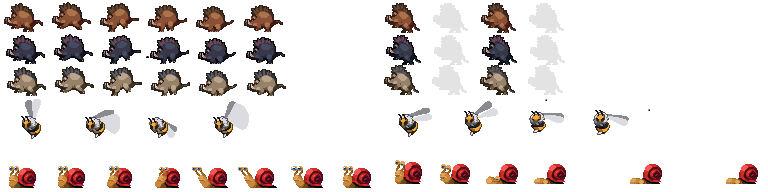
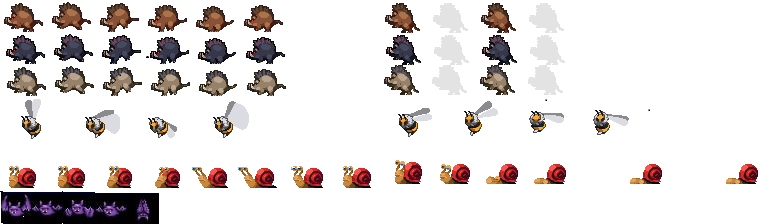
add new blocks lv3

diff --git a/src/Map.cpp b/src/Map.cpp
@@ -59,6 +59,13 @@ Map::Map(const std::string& filePath, int tileSize, std::vector<sf::Texture>& ma
                 block->setItem("peach");
             }
 
+            if (mapData[i][j] == 'W') {
+            
+                Block* block = BlockFactory::createBlock(
+                "water", texture, { j * tileSize, i * tileSize });
+              blocks.push_back(block);
+            }
+
 
             if (mapData[i][j] == 'M') {
               Monster* monster = MonsterFactory::createMonster("Goomba", Monstertexture, { j * tileSize, i * tileSize });
@@ -128,7 +135,34 @@ void Map::draw(sf::RenderWindow& window) {
                 tile.setTextureRect(sf::IntRect(17*32, 0, tileSize, tileSize));  // Assuming the first tile is a solid block
 
             }
-            else /*if (tileType == '0' || tileType == 'C')*/ { // Empty space (no drawing needed)
+            else if (tileType == 'X') {
+              tile.setTextureRect(sf::IntRect(18 * 32, 2*32, tileSize, tileSize));
+            }
+            else if (tileType =='Y') {
+              tile.setTextureRect(sf::IntRect(18 * 32, 32, tileSize, tileSize));
+            }
+            else if (tileType == 'Z') {
+              tile.setTextureRect(sf::IntRect(18 * 32, 0, tileSize, tileSize));
+            }
+            else if (tileType == 'L') {
+              tile.setTextureRect(sf::IntRect(19 * 32, 2 * 32, tileSize, tileSize));
+            }
+            else if (tileType == 'c') {
+              tile.setTextureRect(sf::IntRect(19 * 32, 32, tileSize, tileSize));
+            }
+            else if (tileType == 'R') {
+              tile.setTextureRect(sf::IntRect(19 * 32, 0, tileSize, tileSize));
+            }
+            else if (tileType == 'x') {
+              tile.setTextureRect(sf::IntRect(20 * 32, 2*32, tileSize, tileSize));
+            }
+            else if (tileType == 'y') {
+              tile.setTextureRect(sf::IntRect(20 * 32,32, tileSize, tileSize));
+            }
+            else if (tileType == 'z') {
+              tile.setTextureRect(sf::IntRect(20 * 32, 0, tileSize, tileSize));
+            }
+            else{
                 continue;
             }
 

diff --git a/src/Block.cpp b/src/Block.cpp
@@ -183,12 +183,12 @@ BrickBlock::~BrickBlock()
 {
 }
 
-HiddenBlock::HiddenBlock(const sf::Texture& texture)
+WaterBlock::WaterBlock(const sf::Texture& texture)
   : Block(texture)
 {
 }
 
-HiddenBlock::~HiddenBlock()
+WaterBlock::~WaterBlock()
 {
 }
 
@@ -222,9 +222,20 @@ Block* BlockFactory::createBlock(const std::string& type, sf::Texture& texture, 
     block->setInitY(position.y);
     return block;
   }
-  else if (type == "hidden") {
-    HiddenBlock* block = new HiddenBlock(texture);
+  else if (type == "water") {
+    WaterBlock* block = new WaterBlock(texture);
     block->setPosition(position.x, position.y);
+    auto ani = new BlockAnimation(block->getSprite(), 0.3f);
+    ani->addFrame(sf::IntRect(32 * 6, 32*2, 31, 31));
+    ani->addFrame(sf::IntRect(32 * 7, 32*2, 31, 31));
+    ani->addFrame(sf::IntRect(32 * 8, 32*2, 31, 31));
+    ani->addFrame(sf::IntRect(32 * 9, 32*2, 31, 31));
+    ani->addFrame(sf::IntRect(32 * 10, 32 * 2, 31, 31));
+    ani->addFrame(sf::IntRect(32 * 11, 32 * 2, 31, 31));
+    ani->addFrame(sf::IntRect(32 * 12, 32 * 2, 31, 31));
+    ani->addFrame(sf::IntRect(32 * 13, 32 * 2, 31, 31));
+    block->setAnimated(true);
+    block->setAnimation(ani);
     return block;
   }
   else if (type == "coin") {

diff --git a/src/BlockState.cpp b/src/BlockState.cpp
@@ -29,10 +29,6 @@ void ActiveState::ontouch(Block& block,
     block.setState(new DestroyedState());
   }
 
-  if (dynamic_cast<HiddenBlock*>(&block)) {
-    //implement animation
-    block.setState(new InactiveState());
-  }
 
   if (dynamic_cast<CoinBlock*>(&block)) {
     //implement animation

diff --git a/header/Block.h b/header/Block.h
@@ -76,10 +76,10 @@ public:
   ~BrickBlock();
 };
 
-class HiddenBlock : public Block {
+class WaterBlock : public Block {
 public:
-	HiddenBlock(const sf::Texture& texture);
-	~HiddenBlock();
+	WaterBlock(const sf::Texture& texture);
+	~WaterBlock();
 
 };
 
